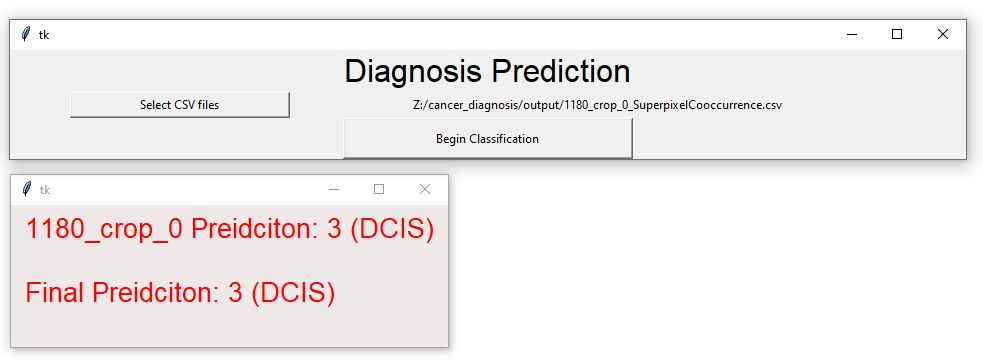
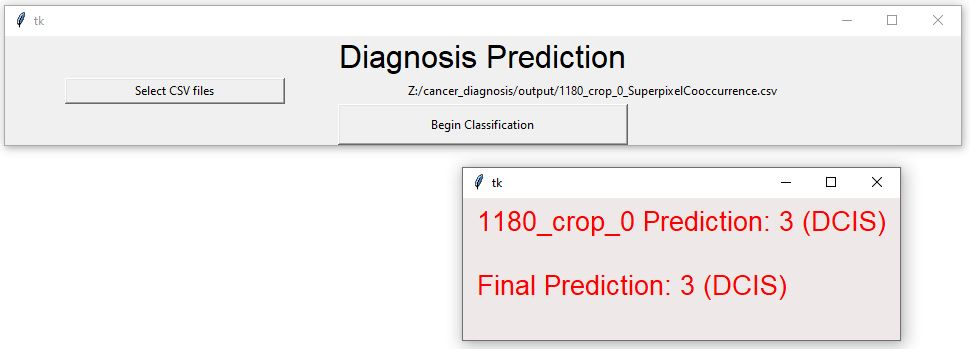
typo fix

Changed region(s): [[0.0, 0.0, 1.0, 1.0], [0.0, 0.745, 0.3402, 0.8883], [0.0619, 0.2292, 0.3093, 0.3438]]

diff --git a/Diagnosis.py b/Diagnosis.py
@@ -62,11 +62,11 @@ def begin_dx_classification():
     
     for k in rst.keys():
         pred, pred_label = rst[k]
-        rst_txt += "%s Preidciton: %d (%s)\n" % (k, pred, pred_label)
+        rst_txt += "%s Prediction: %d (%s)\n" % (k, pred, pred_label)
         preds.append(pred)
         
     max_pred = np.max(preds)
-    rst_txt += "\nFinal Preidciton: %d (%s)\n" % (max_pred, DX_LABELS[max_pred - 1])
+    rst_txt += "\nFinal Prediction: %d (%s)\n" % (max_pred, DX_LABELS[max_pred - 1])
 
     print("Classification All Done!", csv_paths)
     print(results)

diff --git a/README.md b/README.md
@@ -10,10 +10,12 @@ For more detail information, please visit <a href="http://cancertech.cs.washingt
 
 # Installation
 
-The installation instructions are shown in Windows operation system. The installation steps are similar for MacOS and Linux.
+The installation instructions are shown in Windows operation system. 
+MacOS or Linux are not fully supported yet.
+
 
 First, you can download our tools from 
-<a href="https://github.com/meredith-wenjunwu/cancer_diagnosis" target="_blank">Github page</a> 
+<a href="https://github.com/cancertech/cancer_diagnosis" target="_blank">Github page</a> 
 by clicking on the "Clone or download" button first and then clicking on the "Download ZIP" button.
 
 
@@ -265,7 +267,7 @@ Again, we will choose the largest value (worst diagnosis prediction) as the fina
 # User Support
 
 If you have any questions, you can visit the 
-<a href="https://github.com/meredith-wenjunwu/cancer_diagnosis/issues" target="_blank">Github issue page</a> 
+<a href="https://github.com/cancertech/cancer_diagnosis/issues" target="_blank">Github issue page</a> 
 and submit an issue via the "New issue" button as shown below.
 
 <img src="docs/tutorial_img/user_issue.jpg" width="40%" align="middle"/>

diff --git a/docs/installation.md b/docs/installation.md
@@ -1,9 +1,11 @@
 # Installation
 
-The installation instructions are shown in Windows operation system. The installation steps are similar for MacOS and Linux.
+The installation instructions are shown in Windows operation system. 
+MacOS or Linux are not fully supported yet.
+
 
 First, you can download our tools from 
-<a href="https://github.com/meredith-wenjunwu/cancer_diagnosis" target="_blank">Github page</a> 
+<a href="https://github.com/cancertech/cancer_diagnosis" target="_blank">Github page</a> 
 by clicking on the "Clone or download" button first and then clicking on the "Download ZIP" button.
 
 

diff --git a/docs/tutorial.md b/docs/tutorial.md
@@ -176,7 +176,7 @@ Again, we will choose the largest value (worst diagnosis prediction) as the fina
 # User Support
 
 If you have any questions, you can visit the 
-<a href="https://github.com/meredith-wenjunwu/cancer_diagnosis/issues" target="_blank">Github issue page</a> 
+<a href="https://github.com/cancertech/cancer_diagnosis/issues" target="_blank">Github issue page</a> 
 and submit an issue via the "New issue" button as shown below.
 
 <img src="tutorial_img/user_issue.jpg" width="40%" align="middle"/>
